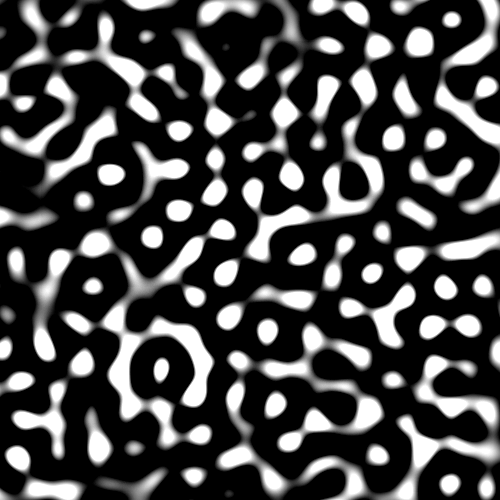
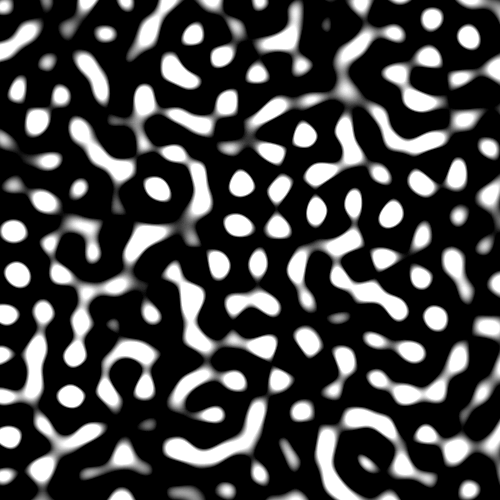
Introduced random range of scaling within generated images, and changed code from using built in math and random modules to using numpy

diff --git a/ripple_noise.py b/ripple_noise.py
@@ -1,34 +1,36 @@
-import random
-import math
 from PIL import Image
+import numpy as np
 
 
 '''
 Class for generating noise texture images
 '''
 class Ripple_Noise:
+    MAX_VALUE = 255
     IMG_EXT = '.png'
 
 
     '''
     Constructor
 
+    name: name of noise image
     size: size of image
     density: density of noise pattern
-    scale: scale of noise pattern
+    scale: scale of noise pattern, expressed as a range so different parts of the image can
+    have different scales randomly selected from this range
     strength: strength of noise pattern
     smoothness: smoothness of noise pattern
     '''
-    def __init__(self, size: int, density: int, scale=0.1, strength=0.75, smoothness=2) -> None:
+    def __init__(self, size: int, density: int, scale=(0.1, 0.1), strength=0.75, smoothness=2) -> None:
         self.__validate_parameters(size, density, smoothness)
 
         self.size = size
         self.density = density
-
         self.delta = self.size // self.density
-        self.scale = scale * self.delta
+        self.scales = np.random.uniform(self.delta * scale[0], self.delta * scale[1], (density, density))
         self.strength = strength * self.delta
         self.smoothness = smoothness
+
 
 
     '''
@@ -67,17 +69,21 @@ class Ripple_Noise:
 
             for j in range(self.density):
                 col = j * self.delta
-                seed = (random.randint(row, row + self.delta), random.randint(col, col + self.delta))
-                self.seeds[i].append(seed)
+
+                seed = (np.random.randint(row, row + self.delta), np.random.randint(col, col + self.delta))
+                scale = self.scales[i][j]
+                seed_info = (seed, scale) # pair seed with it's scaling information
+
+                self.seeds[i].append(seed_info)
 
 
     '''
     Determine lightness of pixel from distance to seed
     '''
-    def __value_function(self, dist: int) -> int:
-        value = 255 * math.cos(math.pi * dist / self.scale)
-        value *= math.exp(-((dist / self.strength) ** 2))
-        return math.floor(value)
+    def __value_function(self, dist: int, scale: np.float64) -> int:
+        value = Ripple_Noise.MAX_VALUE * np.cos(np.pi * dist / scale)
+        value *= np.exp(-((dist / self.strength) ** 2))
+        return int(np.floor(value))
     
 
     '''
@@ -106,9 +112,11 @@ class Ripple_Noise:
         value = 0 
         nearest_seeds = self.__nearest_seeds(x, y)
 
-        for seed in nearest_seeds:
-            dist = math.sqrt(((x - seed[0]) ** 2) + ((y - seed[1]) ** 2))
-            value += self.__value_function(dist)
+        for s in nearest_seeds:
+            seed = s[0]
+            scale = s[1]
+            dist = np.sqrt(((x - seed[0]) ** 2) + ((y - seed[1]) ** 2))
+            value += self.__value_function(dist, scale)
         
         value = min(value, 255)
         self.pixels[x, y] = (value, value, value)

diff --git a/demo.py b/demo.py
@@ -3,15 +3,18 @@ import ripple_noise as rpn
 if __name__ == '__main__':
     # Configure the noise with a Ripple_Noise object.
     # Generate one or more images from a given configuration using the generate_image method.
-    noise1 = rpn.Ripple_Noise(size=500, density=12, scale=0.5, strength=1.5, smoothness=3)
+    noise1 = rpn.Ripple_Noise(size=500, density=12, scale=(0.5, 0.5), strength=1.5, smoothness=3)
     noise1.generate_image('img_1')
 
     noise_2 = rpn.Ripple_Noise(size=300, density=3)
     noise_2.generate_image('img_2')
     noise_2.generate_image('img_3')
 
-    noise_3 = rpn.Ripple_Noise(size=500, density=15, scale=0.3)
-    noise_3.generate_image('img_4')
+    noise_3 = rpn.Ripple_Noise(300, 8, (0.1, 0.5), 3, 4)
+    noise_3.generate_image('img4')
 
-    noise_4 = rpn.Ripple_Noise(size=1000, density=2, scale=0.03, strength=1)
+    noise_4 = rpn.Ripple_Noise(size=500, density=15, scale=(0.3, 0.3))
     noise_4.generate_image('img_5')
+
+    noise_5 = rpn.Ripple_Noise(size=1000, density=2, scale=(0.03, 0.03), strength=1)
+    noise_5.generate_image('img_6')
